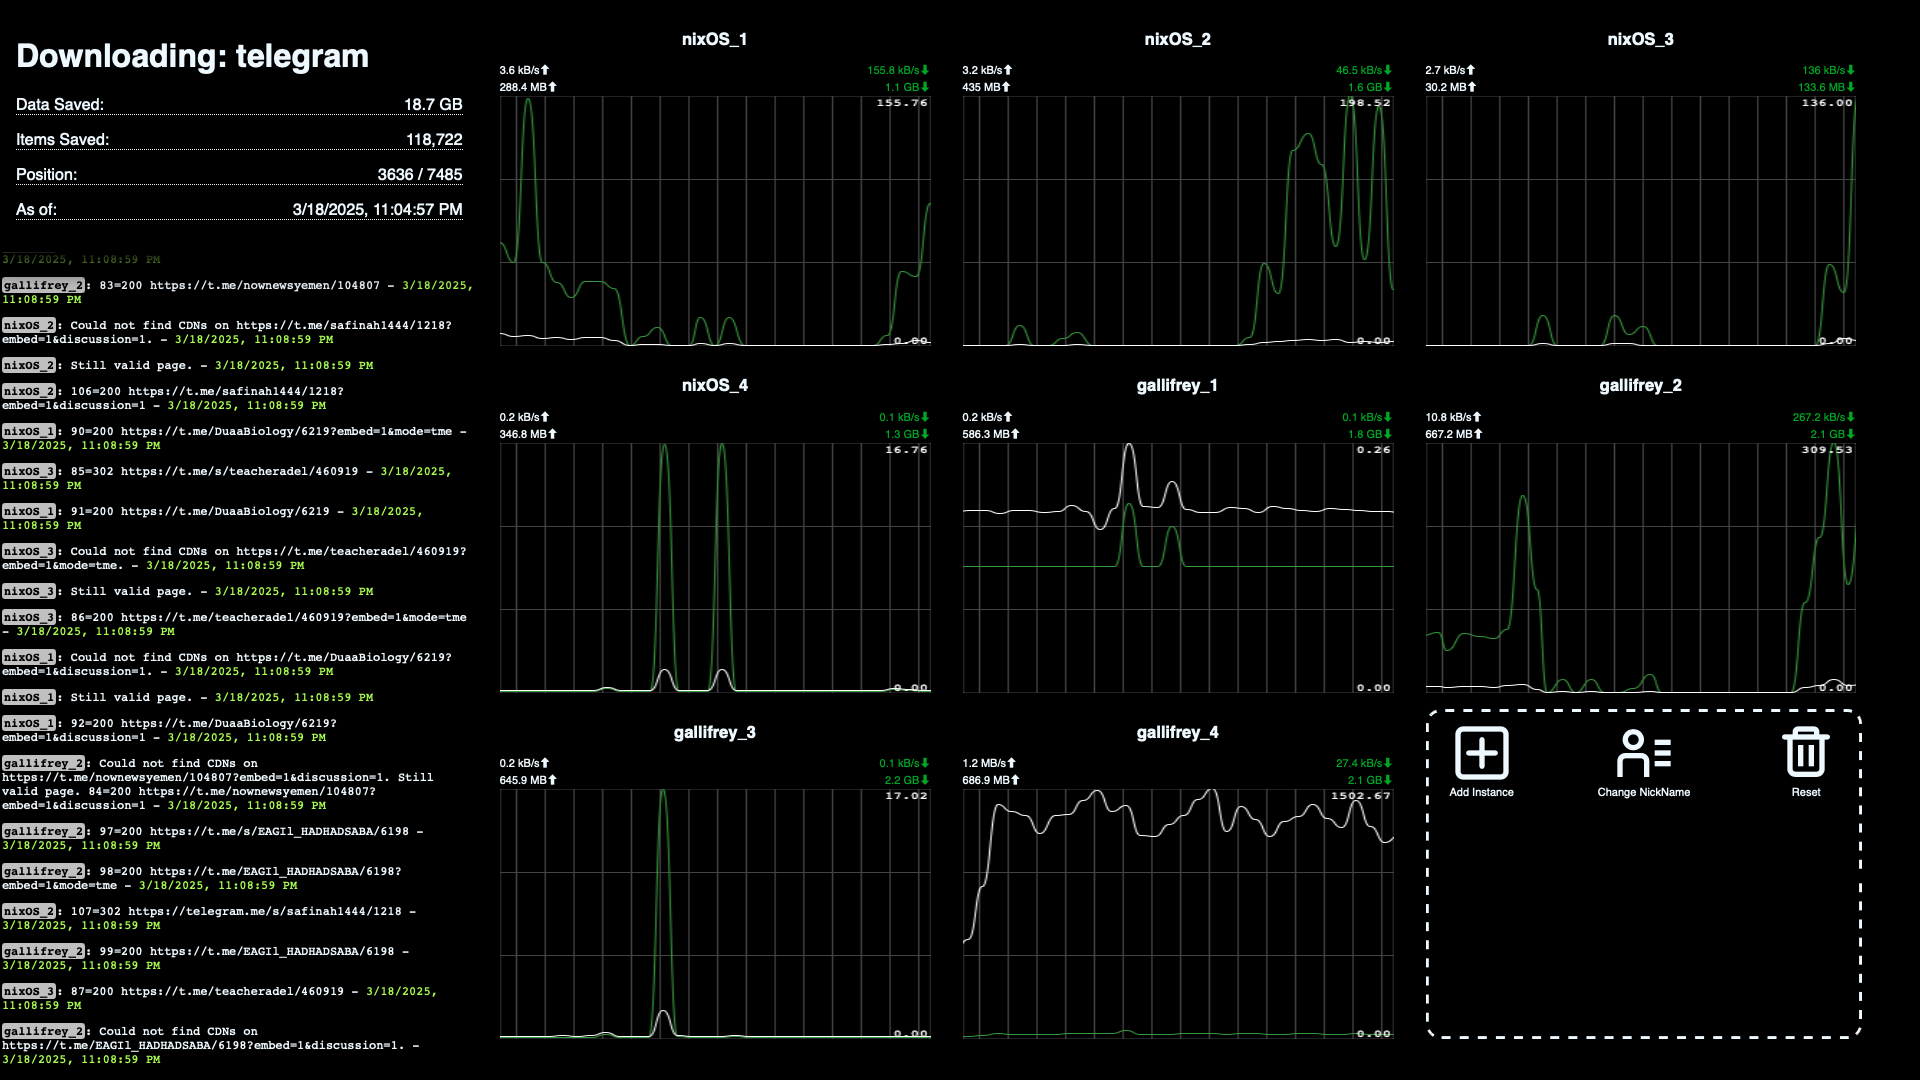
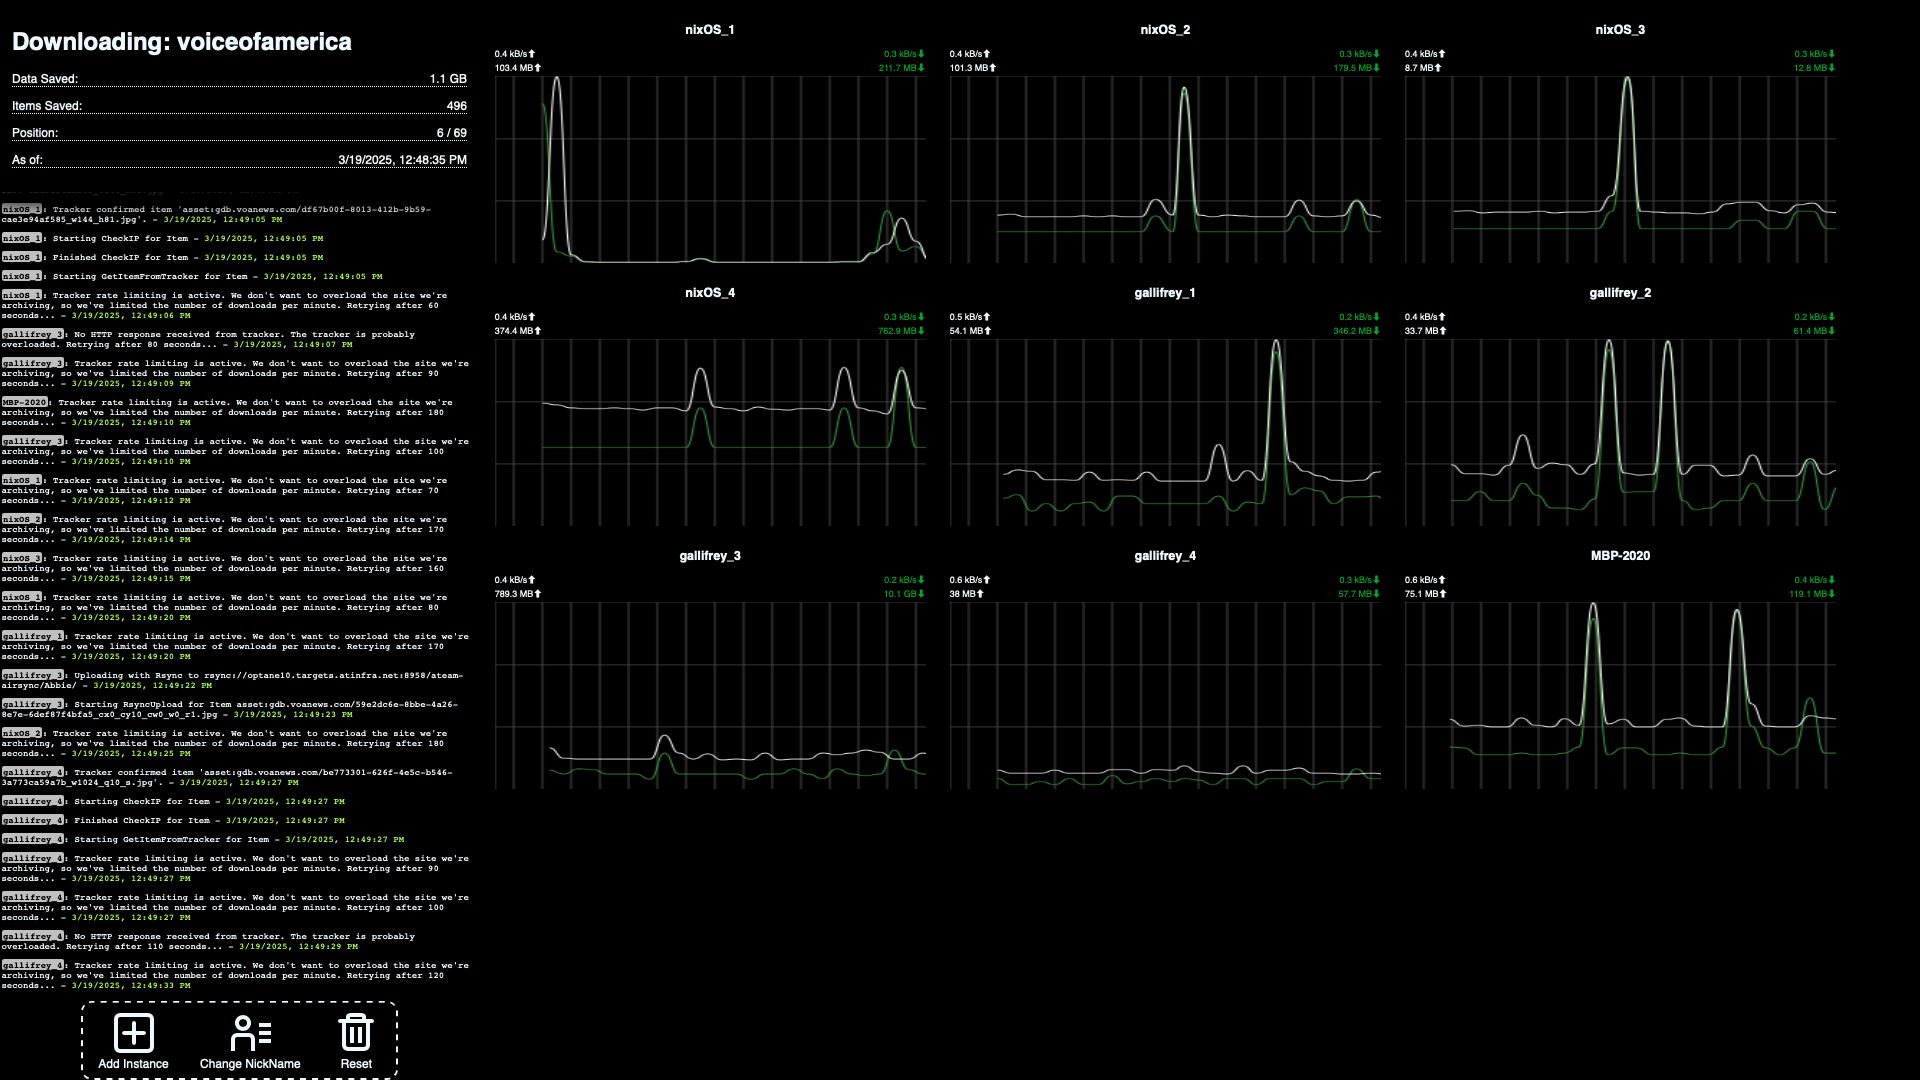
Changed folder locations, updated screenshot, changed location of buttons

Changed region(s): [[0.0, 0.0, 0.9688, 1.0], [0.6875, 0.9472, 0.7188, 0.9778]]

diff --git a/index.html b/index.html
@@ -4,13 +4,13 @@
 		<meta name="viewport" content="width=device-width, initial-scale=1.0, shrink-to-fit=no" />
     <meta name="apple-mobile-web-app-capable" content="yes">
 		<title>Dashboard</title>
-		<link rel="stylesheet" href="style.css">
-		<link rel="stylesheet" href="user.css">
+		<link rel="stylesheet" href="./assets/css/style.css">
+		<link rel="stylesheet" href="./assets/user/user.css">
 		<script src="https://cdn.jsdelivr.net/npm/localforage@1.10.0/dist/localforage.min.js"></script>
     <script src="https://cdn.jsdelivr.net/npm/sockjs-client@1/dist/sockjs.min.js"></script>
-		<script src="https://cdnjs.cloudflare.com/ajax/libs/smoothie/1.9.0/smoothie.min.js" integrity="sha512-undg3joxVi3DngMsRJlOG4mM6P+aFkSiRsDm+CiWgAMZPX+Kj7acjft3ZzMaL9WaYYuSgvqkYdT0ESMrdUNNLQ==" crossorigin="anonymous" referrerpolicy="no-referrer"></script>
-		<script src="anwarConnection.js"></script>
-		<script src="controller.js"></script>
+		<script src="https://cdnjs.cloudflare.com/ajax/libs/smoothie/1.4.0/smoothie.min.js" integrity="sha512-Z3YfKatKZ2mqlORsEMhpYZB4GDBT9LcS89joy9YP6M9B5F8T6HRP4nHwB4BEK7NAoFH882kUg2d1S4xGvaTLWA==" crossorigin="anonymous" referrerpolicy="no-referrer"></script>		
+		<script src="./assets/js/anwarConnection.js"></script>
+		<script src="./assets/js/controller.js"></script>
 		<script>
 		  window.addEventListener("load",(event) => {
 				
@@ -36,9 +36,7 @@
 					<div id="console">
 	
 					</div>
-				</div>
-				<div id="chartArea">
-					<div id="toolbox" class="chartSet">
+					<div id="toolbox" class="">
 						<div id=toolbox-add-node class="toolbox-button" data-window-open="window-add-node">
 							<div class="icon" data-window-open="window-add-node"></div>
 							<div class=label>Add Instance</div>
@@ -52,6 +50,9 @@
 							<div class=label>Reset</div>
 						</div>
 					</div>
+				</div>
+				<div id="chartArea">
+					
 				</div>
 			</div>
 			<div id="window-settings" class="window">

diff --git a/assets/js/controller.js b/assets/js/controller.js
@@ -14,7 +14,6 @@ class controller {
     this.warriorServerConnections = new Array();
 
     if(!savedSettings){
-      console.log(savedSettings);
       this.allSettings = { nick : "", project: "", reuse: true, warriorServers: {}};
       this.showSettings();
     } else {
@@ -82,12 +81,12 @@ class controller {
       })
         .then((res) => res.text())
         .then((stats) => {
-
           var downloaderArray = new Array();
           var currentDate = new Date().toLocaleString();
           var fullStatData = JSON.parse(stats);
+          var statPlace = document.getElementById("metric");
+
           if (fullStatData.downloaders.indexOf(name) > 0) {
-            var statPlace = document.getElementById("metric");
 
             for (const [key, value] of Object.entries(fullStatData.downloader_bytes)) {
               downloaderArray.push({ "name": key, "dl": value });
@@ -104,6 +103,8 @@ class controller {
                                   <p>Position: <span class=data>${statPos} / ${statTotP}</span></p>
                                   <p>As of: <span class=data>${currentDate}</span></p>`;
             this.updateTimer(name, project);
+          } else {
+            statPlace.innerHTML = `<p>Stats for ${name}: ${project} not available yet.</p>`;
           }
 
 

diff --git a/assets/user/user.css b/assets/user/user.css
@@ -1,0 +1,38 @@
+/* User settings  */
+:root {
+  --foreground-color: aliceblue;
+  --background-color: black;
+  --font-family: sans-serif;
+  --console-node-bg: silver;
+  --console-node-fg: black;
+  --console-timestamp-fg: greenyellow;
+  --console-line-fg: var(--foreground-color);
+  --negative-color: red;
+  --window-foreground-color: black;
+  --window-background-color: white;
+  --window-hint-background:  rgba(0,0,0,0.15);
+}
+
+
+#console {
+  overflow-y: hidden;
+}
+
+.instName {
+  border-radius: 3px;
+  padding: 1px 2px;
+}
+
+#chartArea {
+  font-size: 0.69rem;
+}
+
+.chartSet {
+  margin-top: 1rem;
+  margin-bottom: 0;
+}
+
+.userStats {
+  box-shadow: 0px 5px 25px 25px black;
+  z-index: 2;
+}

diff --git a/assets/css/style.css b/assets/css/style.css
@@ -159,6 +159,7 @@ html, body {
   flex-direction: row;
   align-content: flex-start;
   justify-content: space-between;
+  align-self: center;
 }
 
 #toolbox .icon {
